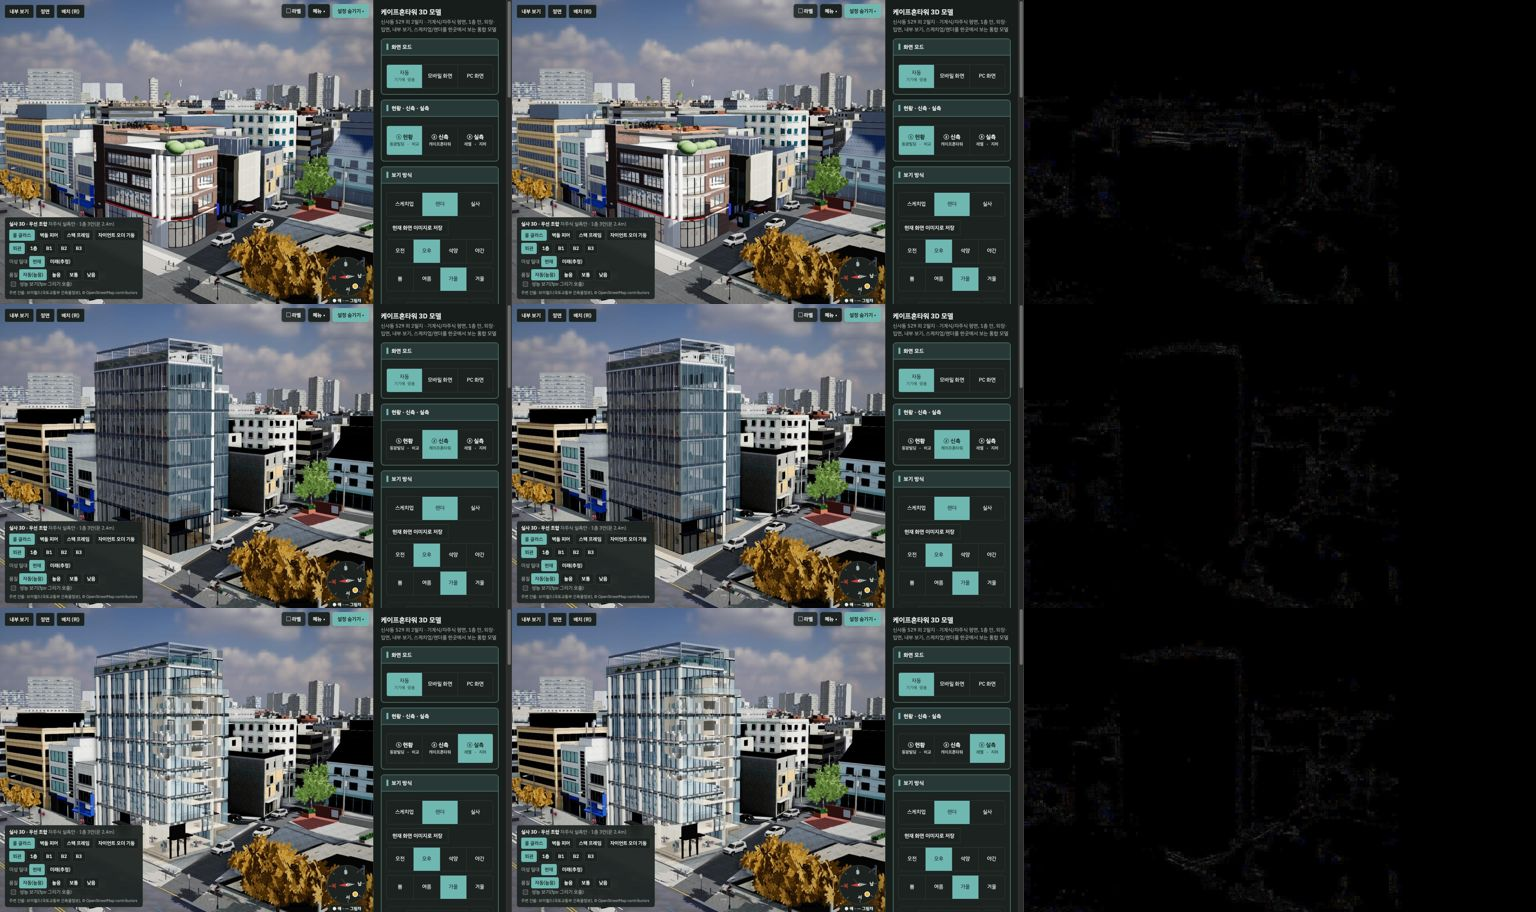
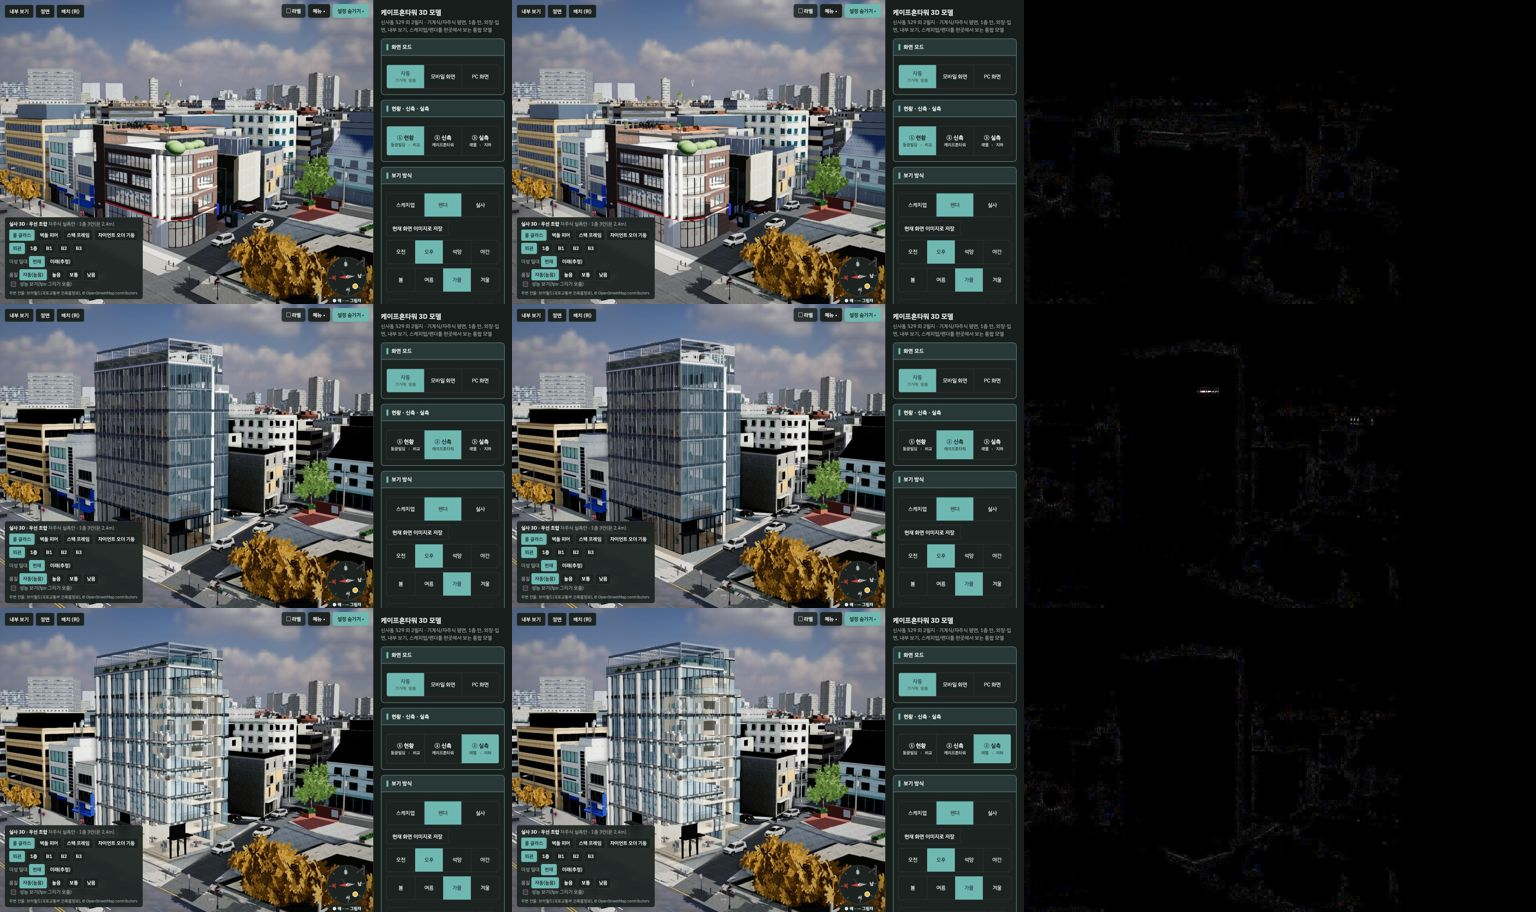
1102.s 최종 보고서, 단일 HTML 다시 묶은 판의 실제 크롬 file:// 시험과 미리보기 비교 기록

diff --git a/docs/report/1102.s-report.md b/docs/report/1102.s-report.md
@@ -1,0 +1,120 @@
+# 케이프혼타워 렌더(실사 3D)·VR 최종 보고 (1102.s, 2026-11-05)
+
+Wing v107 원본에 지니 env_detail(주변 모델과 대지·램프 구조 변경)을 더한 판을 기준으로, 보기 방식 '렌더'를 실사 3D 로 바꾸고 퀘스트 VR 을 붙인 작업의 1102.s 판 보고입니다. 기능이 되는 것과 실사 품질이 충분한 것은 나누어 적었고, 확인하지 못한 것은 확인하지 못했다고 적었습니다.
+
+## 주소와 받을 곳
+
+| 항목 | 주소·경로 |
+|---|---|
+| 미리보기(렌더로 바로) | https://evyfjae.github.io/kapehorn-preview/xr-photoreal/new/3d-model.html?pr=1 |
+| 미리보기(스케치업부터) | https://evyfjae.github.io/kapehorn-preview/xr-photoreal/new/3d-model.html |
+| 짧은 주소(퀘스트용) | https://evyfjae.github.io/kapehorn-preview/vr |
+| QR | https://evyfjae.github.io/kapehorn-preview/vr/qr.html |
+| 단일 HTML | `deliverables/kapehorn-tower-3d_1102.s.html` (작업 폴더 `kapehorn tower/deliverables/`) |
+
+공개 주소의 판 표시는 `KH_ENV_VER='1102.s'`, 실사 3D·VR 계층 `VER = '1102.s'` 로 같습니다.
+
+## GitHub 상태
+
+| 항목 | 상태 |
+|---|---|
+| 저장소·브랜치 | `wing-kim/all` 의 `feature/xr-photoreal` (푸시함) |
+| 마지막 코드 커밋 | `3317925` (1102.s 마무리), 그 뒤 보고 문서 커밋 |
+| 기준 브랜치 | `main` = `dfba839`(v93). `git merge-tree` 충돌 없음 |
+| PR | 열지 않음(Jack 확인 뒤 따로) |
+| `new/3d-model-vr.html` | 바꾸지 않음 |
+| 미리보기 저장소 | `evyfjae/kapehorn-preview` 의 `xr-photoreal/` (tools/publish.sh) |
+
+## 단일 HTML
+
+| 항목 | 값 |
+|---|---|
+| 파일 | `deliverables/kapehorn-tower-3d_1102.s.html` |
+| 크기 | 66,506,572 B (63.4MB), 묶은 파일 505개(원본 46.6MB) |
+| SHA-1 | `5d2e79a3b937f278a08ee13a016e721e70300c80` |
+| 바깥 CDN | 없음. 본문에 남은 바깥 주소는 라이브러리 주석과 Wing 사진 목록(인터넷이 되면 사진 보기에 씀)뿐 |
+| 만드는 법 | `node photoreal/tools/bundle-single.mjs` (결과는 `dist/`, `.gitignore`) |
+
+화면 있는 크롬(별도 프로필, GPU 사용)에서 file:// 로 열어 세 탭 × '렌더' 를 실제 마우스로 눌러 본 결과와 미리보기 화면 비교는 아래 'PC·모바일·VR 합격표' 의 단일 HTML 줄에 적었습니다. Jack 이 처음 열었을 때 렌더가 안 나온 원인은 KTX2 해독기 경로(페이지 폴더 위 `../photoreal/vendor/basis/`)가 묶음 안 파일로 이어지지 않던 것이었고 984a87e 에서 고쳤습니다. 사파리는 확인하지 않았습니다.
+
+## 판별 작업 (1102.k～s)
+
+| 판 | 한 일 |
+|---|---|
+| 1102.k | Wing 윈도우 PC 끊김을 맥에서 흉내 내는 시험(winsim)을 만들고 원인을 고침. Jack 퀘스트 확인 3건(패스스루 비침, 이동 끊김, 레이 조작) |
+| 1102.l | 지니 주변 실사 모델 17동과 가로 요소·가로수 합치기, 반사 지도 되먹임 GL 오류 수정 |
+| 1102.m | 로딩·프레임 최적화 6가지(meshopt·KTX2 압축 등, 무료 도구만) |
+| 1102.n | 신사중학교 서쪽 날개를 실측 111m 로 늘린 판 |
+| 1102.o | Jack 미리보기 확인 3건: 실내 가구 겹침, 정면 가로수, 동쪽 골목 그림자 |
+| 1102.p | Wing v107 과 지니 v107(주변 48개 모델) 합치기, 지니 단일 HTML 들여오기 도구 |
+| 1102.q | VR·품질 낮음에서 먼 지니 건물 단순화 |
+| 1102.r | 알려진 문제·한계 일괄 정리, 지하주차장 램프와 바닥 겹침 수정 |
+| 1102.s | 지니 env_detail 합치기(Wing 확인한 대지·램프 구조 변경 포함), 보기 방식 '렌더' = 실사 3D(KHPRLayer), 스케치업 주변을 지니 v107 방식으로, 모바일 기기 흉내 시험, VR 기능 대응표, Jack 퀘스트 긴급 5건, 단일 HTML 도구, 세 탭 × 보기 방식 원본 비교 시험, 렌더 옵션 대응표, VR 예산 안, VR 주차 차량 NaN 수정 |
+
+자세한 기록은 `docs/goal-gap-plan.md` §12～§22 입니다.
+
+### Jack 퀘스트 긴급 5건 (1102.s)
+
+| # | 문제 | 처리 | 확인 |
+|---|---|---|---|
+| 1 | VR 에서 패스스루(현실)가 비침 | 1:1 VR 은 `immersive-vr`, 패스스루는 피규어 모드만(`immersive-ar`). VR 안에서 모드를 바꾸면 세션을 바꿔 다시 엶 | smoke 26/26(몰입 진입 = immersive-vr) |
+| 2 | 렉 | 패스스루 합성 제거, 실사 3D 를 켠 채 들어가면 자동 화질 1단계부터. VR 외관 예산 안(그리기 170, 삼각형 100만) | 흉내 기준 합격. 퀘스트 실측은 못 함(아래) |
+| 3 | VR 에서 주변 건물이 안 보임 | lite 에서도 건물 묶음을 단순 재질로 보임, 지하 숨김 기준을 −1.2m 로 | 흉내 화면 확인 |
+| 4 | 검은 화면만 길게 보임 | 머리에 붙은 '불러오는 중' 판(진행 단계·경과 초) | `KHXRLayer.loading()` |
+| 5 | 1층 카페 인테리어 이상 | 실측안 평면에 맞춰 카운터·공용 탁자 자리 옮김 | `docs/qa/1102s/cafe-1F-doll-after.jpg` |
+
+## 원본과 같은지
+
+새 시험 `photoreal/tests/tabmodes.mjs` 가 원본(Wing v107 + 지니 env_detail 단일 HTML)과 우리 페이지를 같은 시점에서 찍어 비교합니다. 숫자는 다른 화소 비율입니다. 비교 모음은 `docs/qa/1102s/tabmodes-sheet.jpg` 입니다.
+
+| 탭 | 스케치업 | 렌더(이전, 숨김) | 렌더 | 실사(사진) |
+|---|---|---|---|---|
+| ① 현황 | 0.32% | 0.07% | 실사 3D 켜짐 | 0.00% |
+| ② 신축 | 0.23% | 2.49% | 실사 3D 켜짐 | 0.00% |
+| ③ 실측 | 0.24% | 2.80% | 실사 3D 켜짐 | 0.00% |
+
+렌더는 원본의 지니 렌더-실사 대신 실사 3D 가 켜지는 것이 의도한 차이입니다. 렌더(이전)의 2.5～2.8% 는 타워 유리 반사선으로, 우리 쪽 반사 지도 되먹임 오류 수정 때문으로 판단합니다(추정). 렌더에서 Wing 옵션 177개 상태가 같은 뜻으로 동작하는지는 `docs/render-option-matrix.md`(177/177, 그중 1개는 실측안 6층 고정이라 해당 없음)입니다.
+
+## PC·모바일·VR 합격표
+
+전체 점검(`node photoreal/tests/qa.mjs`, 2026-11-05 01:04, `docs/qa/report.md`)은 합격 57, 불합격 4 입니다. 흉내 결과이며 실기기 결과가 아닙니다.
+
+| 대상 | 항목 | 결과 | 근거 |
+|---|---|---|---|
+| PC(맥 크롬) | 회귀 시험 21종(smoke, compat, ux 두 가지, mp, mobile, perfui, opt, ctxloss, quality, vrmode, vrfeel, env, furn, shadow, ramp, devices, tabmodes, vrmatrix, options 177) | 전부 합격 | qa reg |
+| PC | 외관 그리기 542(기준 1000 미만), 이동 fps 80.6(기준 60 이상), 콘솔 오류 0 | 합격 | qa budget·ui |
+| PC | 첫 방문 외관 준비 7.4초(10Mbps, 기준 12초), 재방문 1.5초 | 합격 | qa budget |
+| PC(윈도우 흉내) | 정상 상태 프레임 17ms 합격. 첫 렌더 전환 가장 긴 프레임 4,027ms(기준 2,000ms) | 불합격 | winsim |
+| PC | 화면 깜빡임 최악 2.33%(1F 낮음, 기준 2%), 바닥 깜빡임 1.41%(휴대폰 먼 거리, 기준 1%) | 불합격 | qa quality |
+| PC | 신사중 운동장 화면(env-school) 색이 기준보다 옅음 | 불합격(원인 미확인) | qa shots |
+| 단일 HTML(맥 크롬 156 file://, 화면 있는 창·별도 프로필·GPU) | 세 탭 × 렌더 실제 마우스 클릭: 모두 실사 3D 켜짐·'준비 완료'. 콘솔 오류는 Wing 사진 목록 첫 후보 없음 1건(원본 동작, 미리보기도 같은 404). 같은 순서로 연 미리보기와 화면 차 평균 0.30～0.34(0～255), 큰 차 화소 0～0.01% | 합격 | `docs/qa/1102s/bundle-headed-vs-preview.jpg`·`.json` |
+| 아이폰 흉내 | SE·13 세로·가로, 렌더 빈 화면 없음, 겹침·넘침 없음, 터치 | 합격 | devices 19/19, mobile 8/8 |
+| 안드로이드 흉내 | 픽셀 7 세로·가로, 품질 낮음 그리기 333(기준 400 미만) | 합격 | devices, qa budget |
+| 아이패드 흉내 | 미니·프로 | 합격 | devices |
+| WebGL2 없는 브라우저 | 렌더를 고르면 안내 후 스케치업으로 | 합격 | devices |
+| VR(퀘스트 3 흉내) | 외관 그리기 170(기준 170 이하), 삼각형 999,994(기준 100만 이하), 실내 198(기준 200 이하), 피규어 148 | 합격 | xr, compat |
+| VR | 순간이동 뒤 최장 프레임 32ms, 층 이동 뒤 90ms(CPU 4배 감속) | 합격 | vrfeel |
+| VR | 메뉴가 화면 조작 77개를 담는지: 됨 66, 대체 4, 안 됨 7(이유 있음), 이유 없는 빠짐 0 | 합격 | vrmatrix, `docs/vr-feature-matrix.md` |
+| VR 실기기 | 72fps 유지, 렉 해소 여부 | 확인 못 함 | 이 맥에 퀘스트가 연결되지 않음 |
+| 아이폰·안드로이드 실기기 | 메모리 한도, 텍스처 형식, 주소창, 제스처 | 확인 못 함 | `docs/device-checklist.md` |
+
+## 남은 한계
+
+| 항목 | 상태 |
+|---|---|
+| 윈도우 흉내 첫 렌더 전환 최장 프레임 4,027ms | 기준 2,000ms 초과. 스케치업 가로 묶음과 2·3구역 받기가 겹치는 것으로 봄. Wing PC 실측(우리 측정 1,219ms 판과 비교)을 받아 줄일지 결정 |
+| 깜빡임(화면 2.33%, 바닥 1.41%) | 기준 초과. 지니 단차 면과 겹침으로 추정 |
+| env-school 색 | 신사중 운동장 트랙 색이 옅어짐, 원인 미확인, 기준 화면 갱신 안 함 |
+| VR 예산 여유 | 외관 삼각형 999,994 로 기준 100만에 거의 붙어 있음. 주변 모델이 늘면 다시 넘을 수 있음 |
+| VR 실내 그리기 198 | 기준 200 에 가까움 |
+| 렌더(이전) 유리 반사 차 2.5～2.8% | 의도한 차이로 판단(추정), 화면에서 숨겨진 방식 |
+| 퀘스트 실측 | 못 함. 프레임·GPU 측정은 퀘스트를 USB 로 이 맥에 연결해야 함 |
+| 사파리·실기기 | 확인 못 함 |
+
+## 실기기 확인 목록
+
+`docs/device-checklist.md` 에 아이폰(사파리 메모리 한도, 텍스처, 주소창, 제스처), 안드로이드(첫 로딩 시간, 자동 화질), 퀘스트 3(세 탭 × 스케치업·렌더 진입·순간이동·층 이동·손목 메뉴, 72fps, 오래 있을 때 다시 열림, 텍스처, 멀티플레이 음성)을 적었습니다. 확인 결과는 기기 이름, 운영체제 판, 브라우저와 함께 알려 주시면 다음 판에 반영합니다.
+
+## 관련 문서
+
+`docs/goal-gap-plan.md`(작업 기록 §12～§22), `docs/qa/report.md`(전체 점검), `docs/render-option-matrix.md`(렌더 옵션 대응표), `docs/vr-feature-matrix.md`(VR 기능 대응표), `docs/device-checklist.md`(실기기 목록), `docs/jinny-structural-diff.md`(지니 구조 변경), `docs/pr/xr-photoreal-pr.md`(PR 본문 초안), `docs/wing-handoff-xr-photoreal.md`(Wing 인계).
